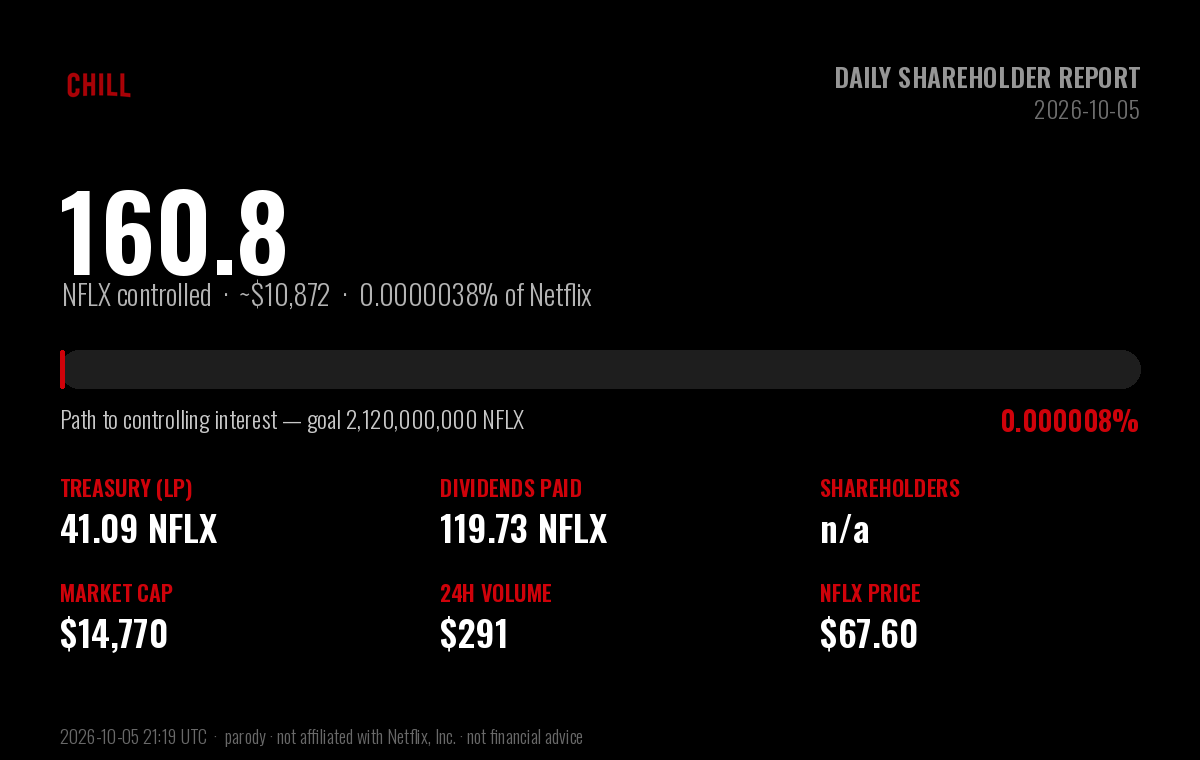
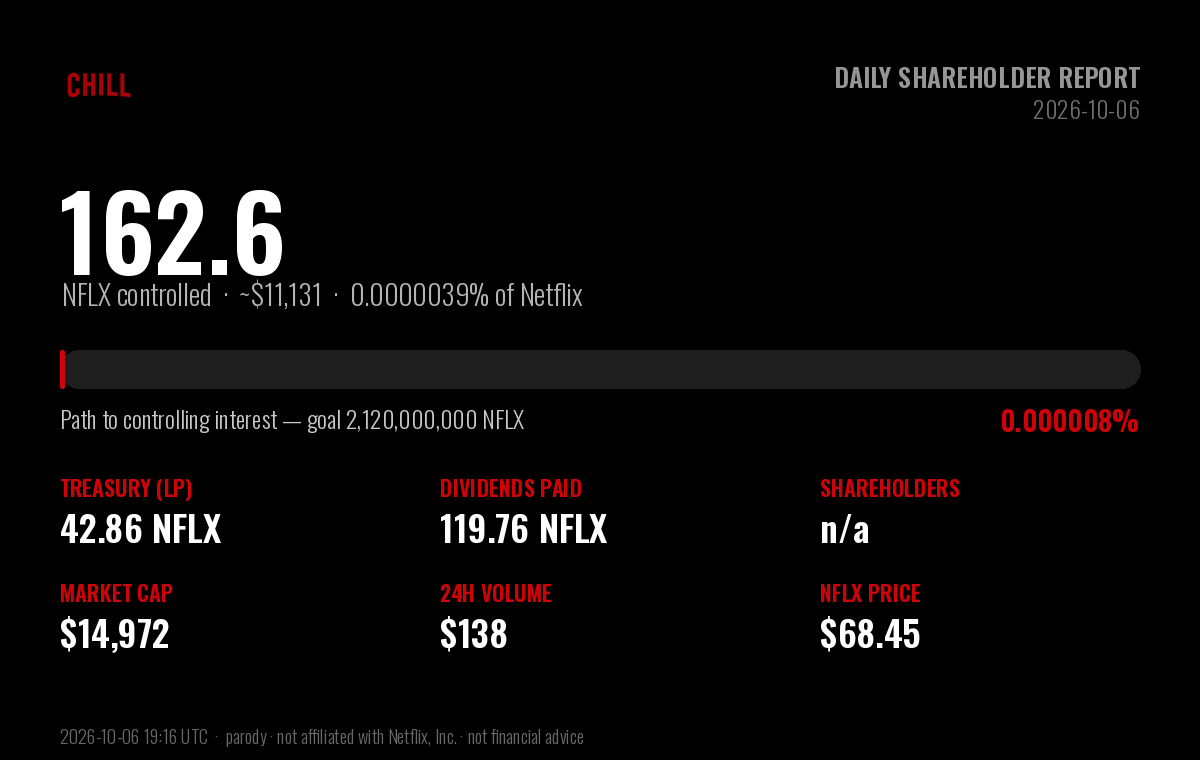
chore: daily $CHILL shareholder report (2026-10-06)

diff --git a/daily-holder-report/README.md b/daily-holder-report/README.md
@@ -1,6 +1,6 @@
 # $CHILL — Daily Shareholder Report
 
-### Netflix and Chill · Report to Shareholders · 2026-10-05
+### Netflix and Chill · Report to Shareholders · 2026-10-06
 
 > **Corporate objective:** acquire a controlling interest in Netflix (NFLX).
 > Netflix has **4,220,000,000** shares outstanding; a majority
@@ -13,53 +13,53 @@
 
 | Metric | Value |
 |---|---|
-| **NFLX under $CHILL control** | **160.83 NFLX** (~$10,872) |
-| Stake in Netflix | 0.000003811% of shares outstanding |
-| Progress to controlling interest | 0.0000076% of 2,120,000,000 |
-| Shares remaining to majority | 2,119,999,839 NFLX |
+| **NFLX under $CHILL control** | **162.61 NFLX** (~$11,131) |
+| Stake in Netflix | 0.000003853% of shares outstanding |
+| Progress to controlling interest | 0.0000077% of 2,120,000,000 |
+| Shares remaining to majority | 2,119,999,837 NFLX |
 
 ## Balance sheet — NFLX holdings
 
 | Holding | NFLX | USD |
 |---|---|---|
-| Treasury (protocol-owned liquidity) | 41.09 | $2,778 |
-| Dividends distributed to shareholders | 119.73 | $8,094 |
-| **Total NFLX controlled** | **160.83** | **$10,872** |
+| Treasury (protocol-owned liquidity) | 42.86 | $2,934 |
+| Dividends distributed to shareholders | 119.76 | $8,197 |
+| **Total NFLX controlled** | **162.61** | **$11,131** |
 
 ## Last 24 hours
 
 | Metric | Value |
 |---|---|
-| Trading volume | 4.30 NFLX (~$291) |
-| Net NFLX accumulated | -1.41 NFLX |
-| Dividends generated | 0.0430 NFLX |
-| Transactions | 4 (1 buys / 3 sells) |
-| $CHILL price change | -1.3% |
+| Trading volume | 2.02 NFLX (~$138) |
+| Net NFLX accumulated | 1.77 NFLX |
+| Dividends generated | 0.0202 NFLX |
+| Transactions | 3 (2 buys / 1 sells) |
+| $CHILL price change | +1.4% |
 
 ## Shareholder & market data
 
 | Metric | Value |
 |---|---|
 | Shareholders of record | n/a |
-| Lifetime unique participants | 1817 |
+| Lifetime unique participants | 1818 |
 | Shares outstanding ($CHILL) | 1,000,000,000 |
-| Market capitalization | $14,770 |
-| $CHILL price | $0.00001477 |
-| NFLX price | $67.60 |
-| Lifetime volume | 11,973.50 NFLX (~$809,395) |
-| Lifetime transactions | 8,601 (4,809 buys / 3,792 sells) |
-| Days since IPO (launch) | 78 |
+| Market capitalization | $14,972 |
+| $CHILL price | $0.00001497 |
+| NFLX price | $68.45 |
+| Lifetime volume | 11,975.52 NFLX (~$819,749) |
+| Lifetime transactions | 8,604 (4,811 buys / 3,793 sells) |
+| Days since IPO (launch) | 79 |
 
 ## Per-share metrics
 
 | Metric | Value |
 |---|---|
-| NFLX backing per 1M $CHILL | 0.160828 NFLX |
-| Dividends per 1M $CHILL | 0.119735 NFLX |
+| NFLX backing per 1M $CHILL | 0.162615 NFLX |
+| Dividends per 1M $CHILL | 0.119755 NFLX |
 
 ---
 
-*Report generated 2026-10-05 21:19 UTC · block 81,098,248 · data via the Sentry-Robinhood
+*Report generated 2026-10-06 19:16 UTC · block 81,870,353 · data via the Sentry-Robinhood
 subgraph and Robinhood Chain explorer.*
 
 **Disclaimer:** $CHILL is an independent, community-driven **parody** token. It is
